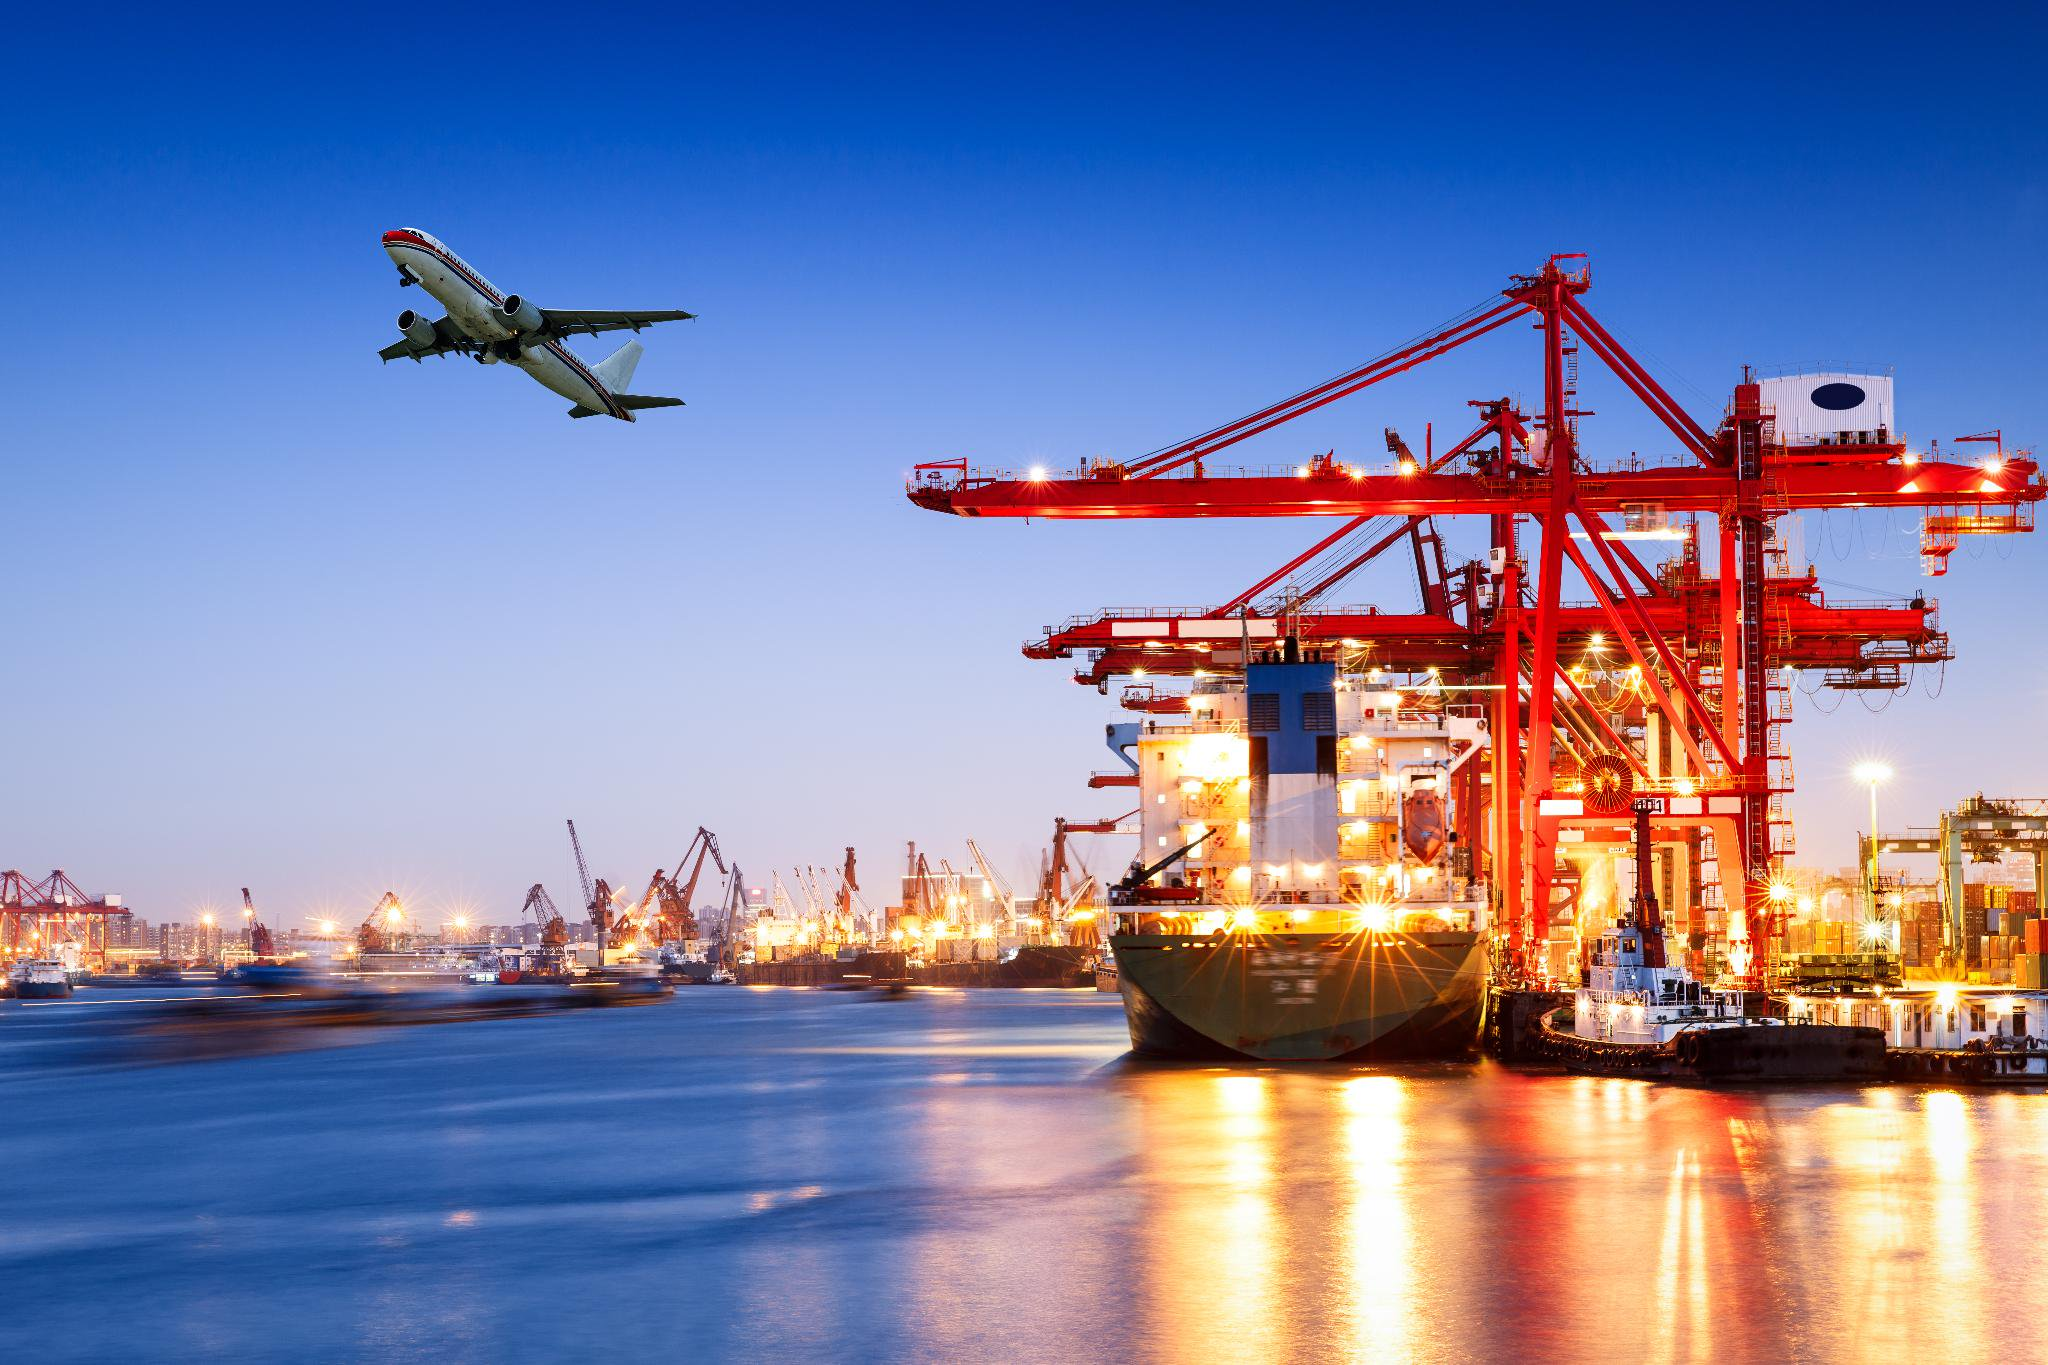
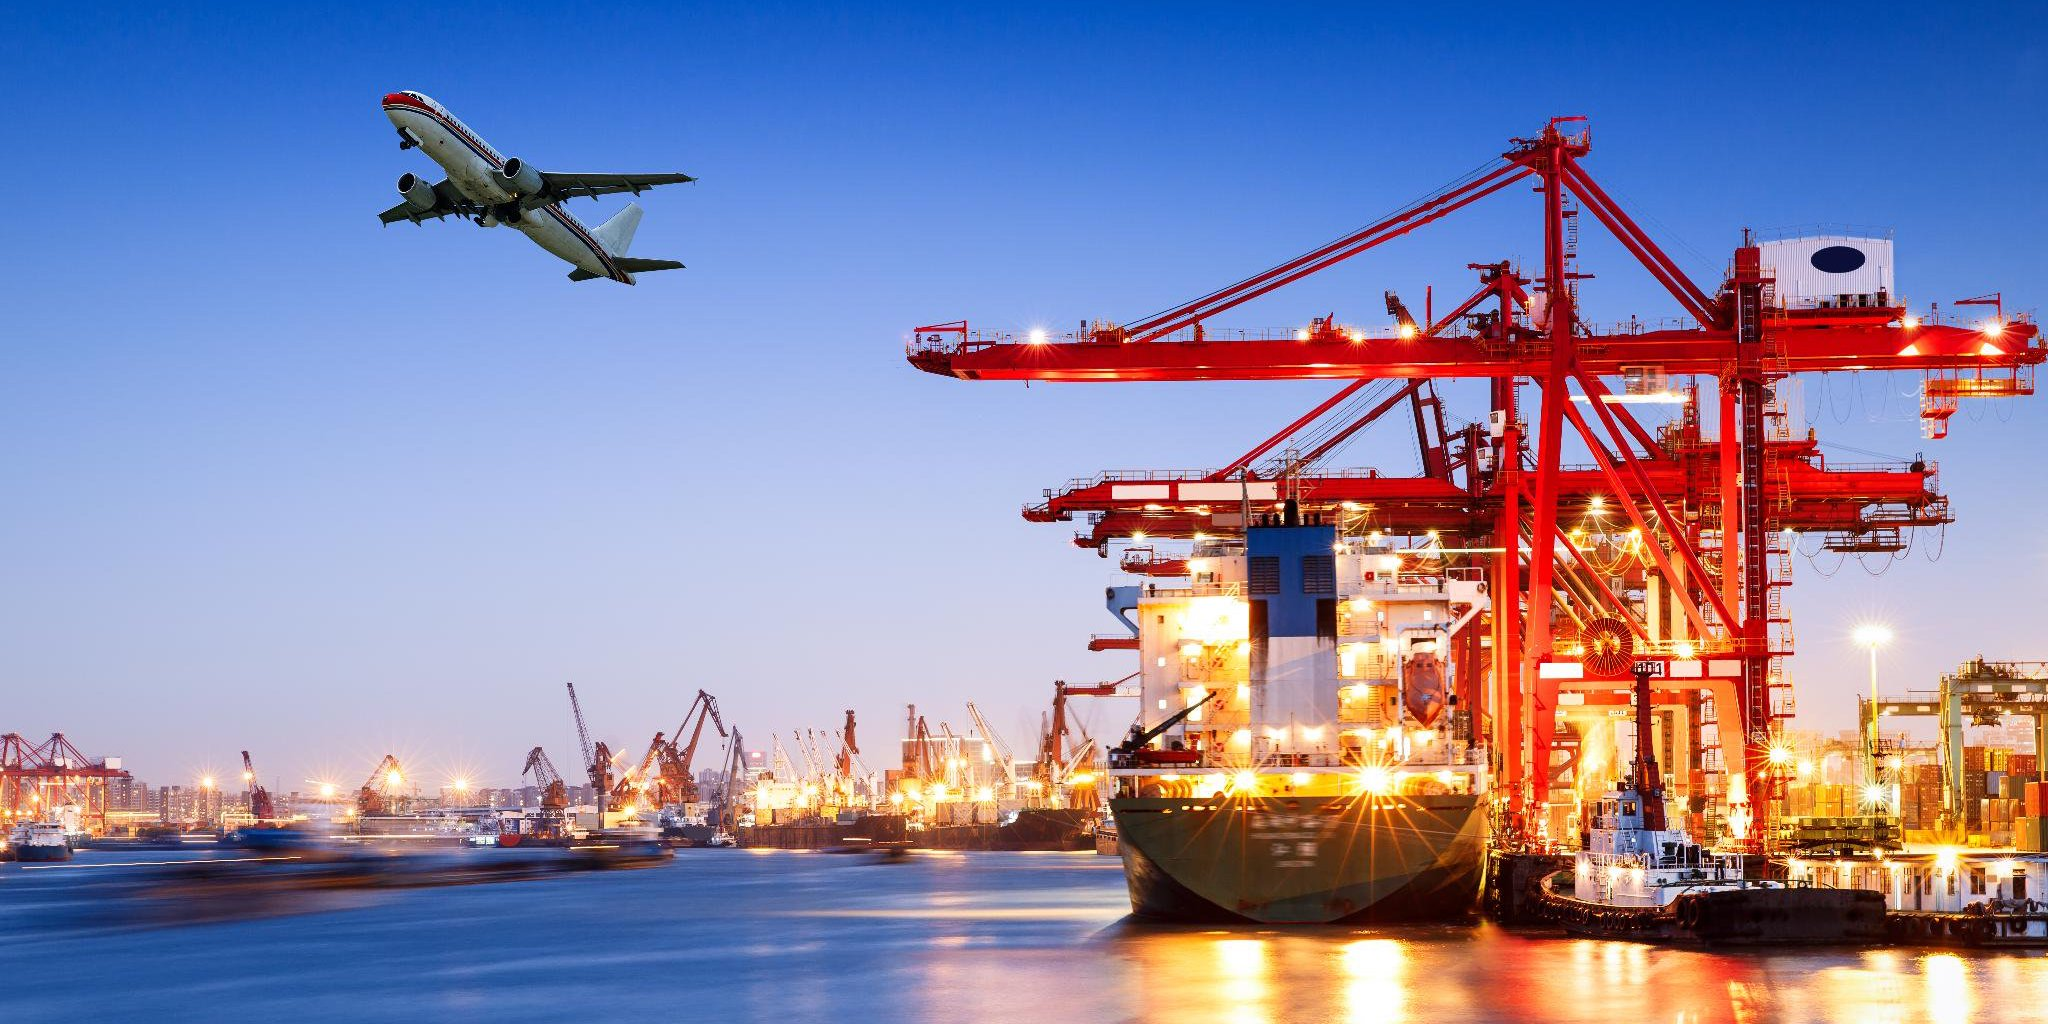
Switch to feature image and use wider aspect ratio

diff --git a/_posts/2019-04-29-hello-freight-tech.md b/_posts/2019-04-29-hello-freight-tech.md
@@ -8,7 +8,7 @@ categories: culture
 excerpt: "I am happy to share my next move as a VP of Software Engineering at C.H. Robinson, the world's largest supply chain management and third-party logistics (3PL) company."
 tags: [Culture, Technology]
 image:
-  thumb: posts/2019/port.jpg
+  feature: posts/2019/port.jpg
 disclaimer: true
 ---
 
